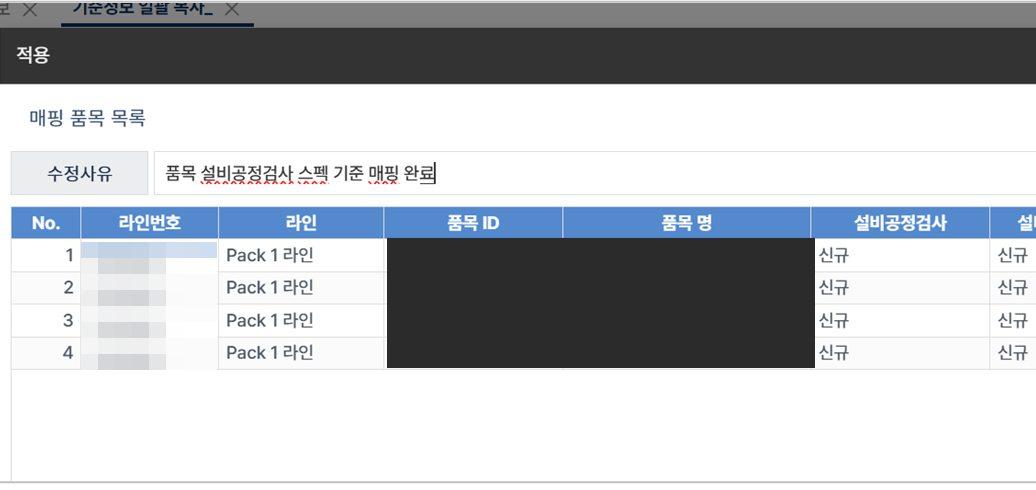
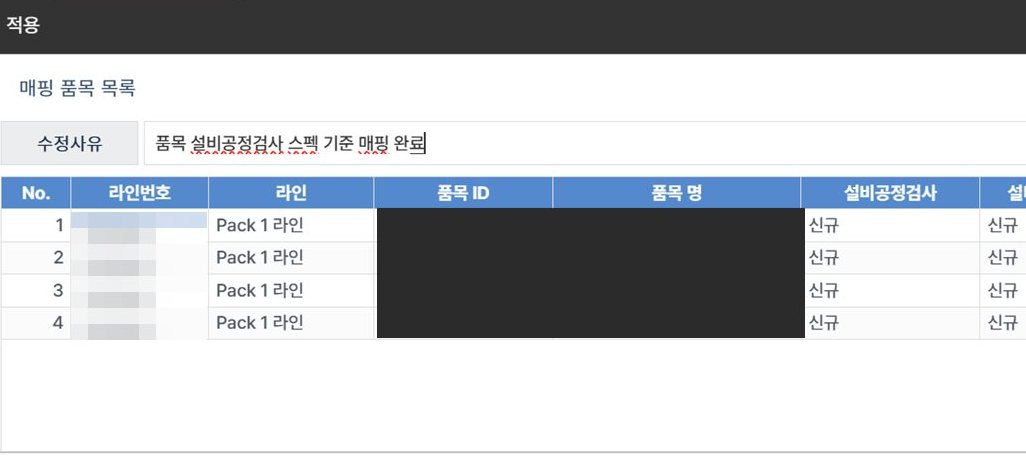
[fix] 베트남 프로젝트 역할 문구와 ESS 대표 화면 정리
- 베트남 공장 MES 고도화 역할을 「개발」에서 담당 업무 한 줄로 보강
- ESS 배터리 팩 대표 화면에서 반쯤 잘린 맨 위 탭 줄을 빼고 다시 자름
- 정용재

Changed region(s): [[0.0, 0.0, 1.0, 0.7675], [0.0, 0.9825, 1.0, 1.0], [0.3743, 0.7368, 0.7797, 0.7675]]

diff --git a/career.html b/career.html
@@ -65,7 +65,7 @@
 
                 <ol class="project-list"><li class="project-entry" id="electronics-mes-vietnam" data-kb="project" data-slug="electronics-mes-vietnam"><div class="entry-side"><time class="entry-period" data-kb-field="period">2026.11 ~ 현재</time><span class="entry-system">MES</span></div>
                             <div class="entry-main"><h3><a class="entry-link" href="project-electronics-mes-vietnam.html" data-kb-field="title">전자부품 SMT·조립 공장 MES 고도화</a></h3>
-                                <dl class="entry-facts"><div><dt>역할</dt><dd data-kb-field="role">개발</dd></div></dl><ul class="entry-tech" aria-label="사용 기술"><li data-kb-field="tech">Java 17</li><li data-kb-field="tech">SmartUX(HTML/JS)</li><li data-kb-field="tech">MS-SQL</li><li data-kb-field="tech">SAP I/F</li><li data-kb-field="tech">Git</li></ul></div></li><li class="project-entry" id="battery-pack-mes" data-kb="project" data-slug="battery-pack-mes"><div class="entry-side"><time class="entry-period" data-kb-field="period">2026.06 ~ 2026.10</time><span class="entry-system">MES</span></div>
+                                <dl class="entry-facts"><div><dt>역할</dt><dd data-kb-field="role">베트남 공장 담당, 품목 기준정보 신규 화면·기능 개발</dd></div></dl><ul class="entry-tech" aria-label="사용 기술"><li data-kb-field="tech">Java 17</li><li data-kb-field="tech">SmartUX(HTML/JS)</li><li data-kb-field="tech">MS-SQL</li><li data-kb-field="tech">SAP I/F</li><li data-kb-field="tech">Git</li></ul></div></li><li class="project-entry" id="battery-pack-mes" data-kb="project" data-slug="battery-pack-mes"><div class="entry-side"><time class="entry-period" data-kb-field="period">2026.06 ~ 2026.10</time><span class="entry-system">MES</span></div>
                             <div class="entry-main"><h3><a class="entry-link" href="project-battery-pack-mes.html" data-kb-field="title">ESS 배터리 팩 공장 MES/EES 추가 개발 및 운영 안정화</a></h3>
                                 <dl class="entry-facts"><div><dt>역할</dt><dd data-kb-field="role">신규 화면·Rule·DB 설계/개발, 운영 이슈 분석</dd></div></dl><ul class="entry-achievements"><li data-kb="achievement" data-code="G2">신규 품목의 기준정보 등록을 대표 기준(Master) 일괄 적용 방식으로 재설계해 고객 요구를 반영했습니다.</li><li data-kb="achievement" data-code="G9">AZ 생산실적 대시보드에서 서머타임으로 시차가 바뀌어도 근무조 경계가 어긋나지 않도록, 시차 숫자 대신 시간대 이름으로 변환하는 방식을 설계했습니다.</li><li data-kb="achievement" data-code="G1">입사 후 4개월 동안 신규 화면 5종을 포함해 추가 개발 15건 이상을 수행했습니다.</li><li data-kb="achievement" data-code="G3">바코드 오리딩 오류로 어긋난 위치와 LOT ID를 정정하는 화면을 만들어 EOL 인터락 오류에 대응했습니다.</li><li data-kb="achievement" data-code="G5">쿼리 힌트가 문장 단위로만 적용된다는 점을 실측으로 찾아 운영 쿼리를 수정했습니다.</li></ul><ul class="entry-tech" aria-label="사용 기술"><li data-kb-field="tech">Java 17</li><li data-kb-field="tech">SmartUX(HTML/JS)</li><li data-kb-field="tech">MS-SQL</li><li data-kb-field="tech">Oracle</li><li data-kb-field="tech">SVN</li></ul></div></li></ol></article><article class="company" data-kb="experience" data-slug="exp-2023-11"><header class="company-head"><div><h2 data-kb-field="company">삼미정보시스템</h2></div>
                     <dl class="company-meta"><div><dt>기간</dt><dd><time data-kb-field="period">2023.11 ~ 2026.05</time></dd></div>

diff --git a/projects.html b/projects.html
@@ -87,7 +87,7 @@
             <span class="wire-badge is-live"><i class="wire-pulse"></i>지금 진행 중</span></div>
         <span class="cover-chip">MES</span></div>
                         <div class="project-body"><p class="project-period"><time>2026.11 ~ 현재</time> · 엠아이큐브솔루션</p>
-                            <h2 class="project-title">전자부품 SMT·조립 공장 MES 고도화</h2><p class="project-summary">베트남 공장 MES 고도화</p><p class="project-impact">개발</p>
+                            <h2 class="project-title">전자부품 SMT·조립 공장 MES 고도화</h2><p class="project-summary">베트남 공장 MES 고도화</p><p class="project-impact">베트남 공장 담당, 품목 기준정보 신규 화면·기능 개발</p>
                             <span class="project-go">자세히 보기 <svg class="icon " width="16" height="16" viewBox="0 0 24 24" fill="none" stroke="currentColor" stroke-width="1.8" stroke-linecap="round" stroke-linejoin="round" aria-hidden="true" focusable="false"><path d="M7 17 17 7M8 7h9v9"></path></svg></span></div></a></li><li><a class="project-card" href="project-battery-pack-mes.html"><div class="project-cover has-shot" aria-hidden="true"><img src="media/projects/battery-pack-mes.jpg" alt loading="lazy" />
         <span class="cover-chip">MES</span></div>
                         <div class="project-body"><p class="project-period"><time>2026.06 ~ 2026.10</time> · 엠아이큐브솔루션</p>

diff --git a/project-electronics-mes-vietnam.html b/project-electronics-mes-vietnam.html
@@ -60,7 +60,7 @@
 
             <dl class="case-facts"><div><dt>기간</dt><dd><time data-kb-field="period">2026.11 ~ 현재</time></dd></div>
                 <div><dt>회사</dt><dd>엠아이큐브솔루션</dd></div>
-                <div class="wide"><dt>역할</dt><dd data-kb-field="role">개발</dd></div></dl>
+                <div class="wide"><dt>역할</dt><dd data-kb-field="role">베트남 공장 담당, 품목 기준정보 신규 화면·기능 개발</dd></div></dl>
             <ul class="entry-tech case-tech" aria-label="사용 기술"><li data-kb-field="tech">Java 17</li><li data-kb-field="tech">SmartUX(HTML/JS)</li><li data-kb-field="tech">MS-SQL</li><li data-kb-field="tech">SAP I/F</li><li data-kb-field="tech">Git</li></ul></header>
 
         <div class="container case-body"><p class="case-summary">베트남 공장 MES 고도화</p><nav class="case-nav" aria-label="다른 프로젝트"><span></span><a class="case-nav-link to-right" href="project-battery-pack-mes.html" rel="next"><span class="muted">이전 프로젝트 →</span>
